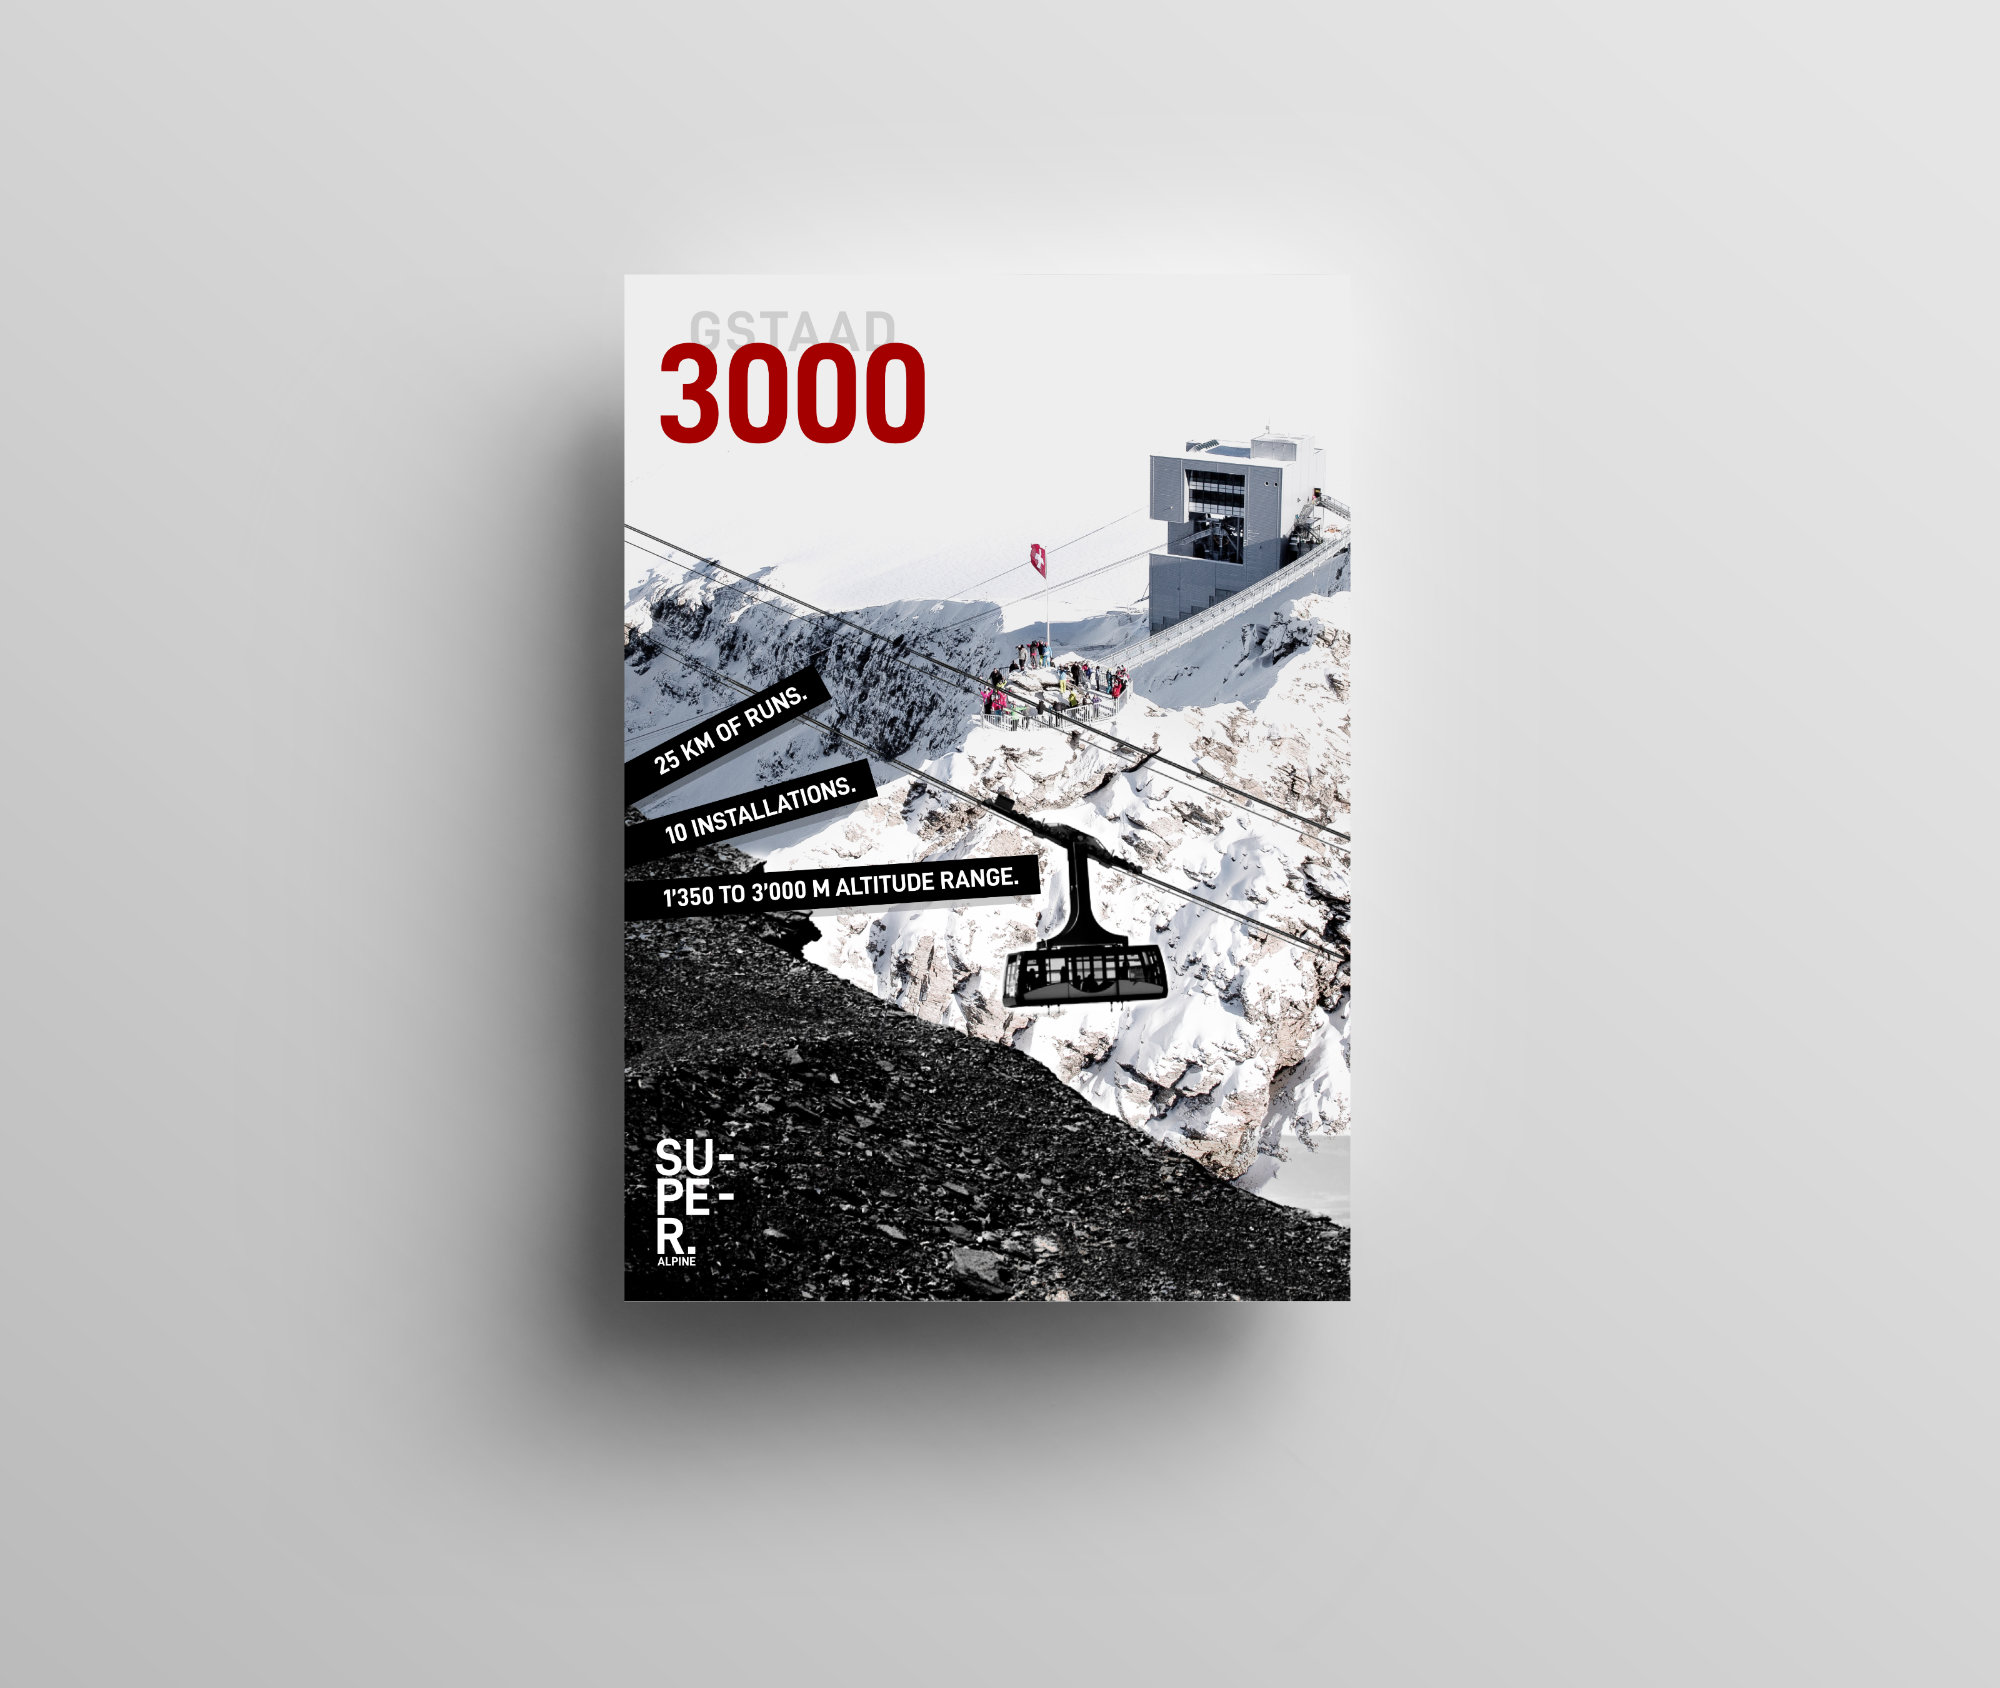
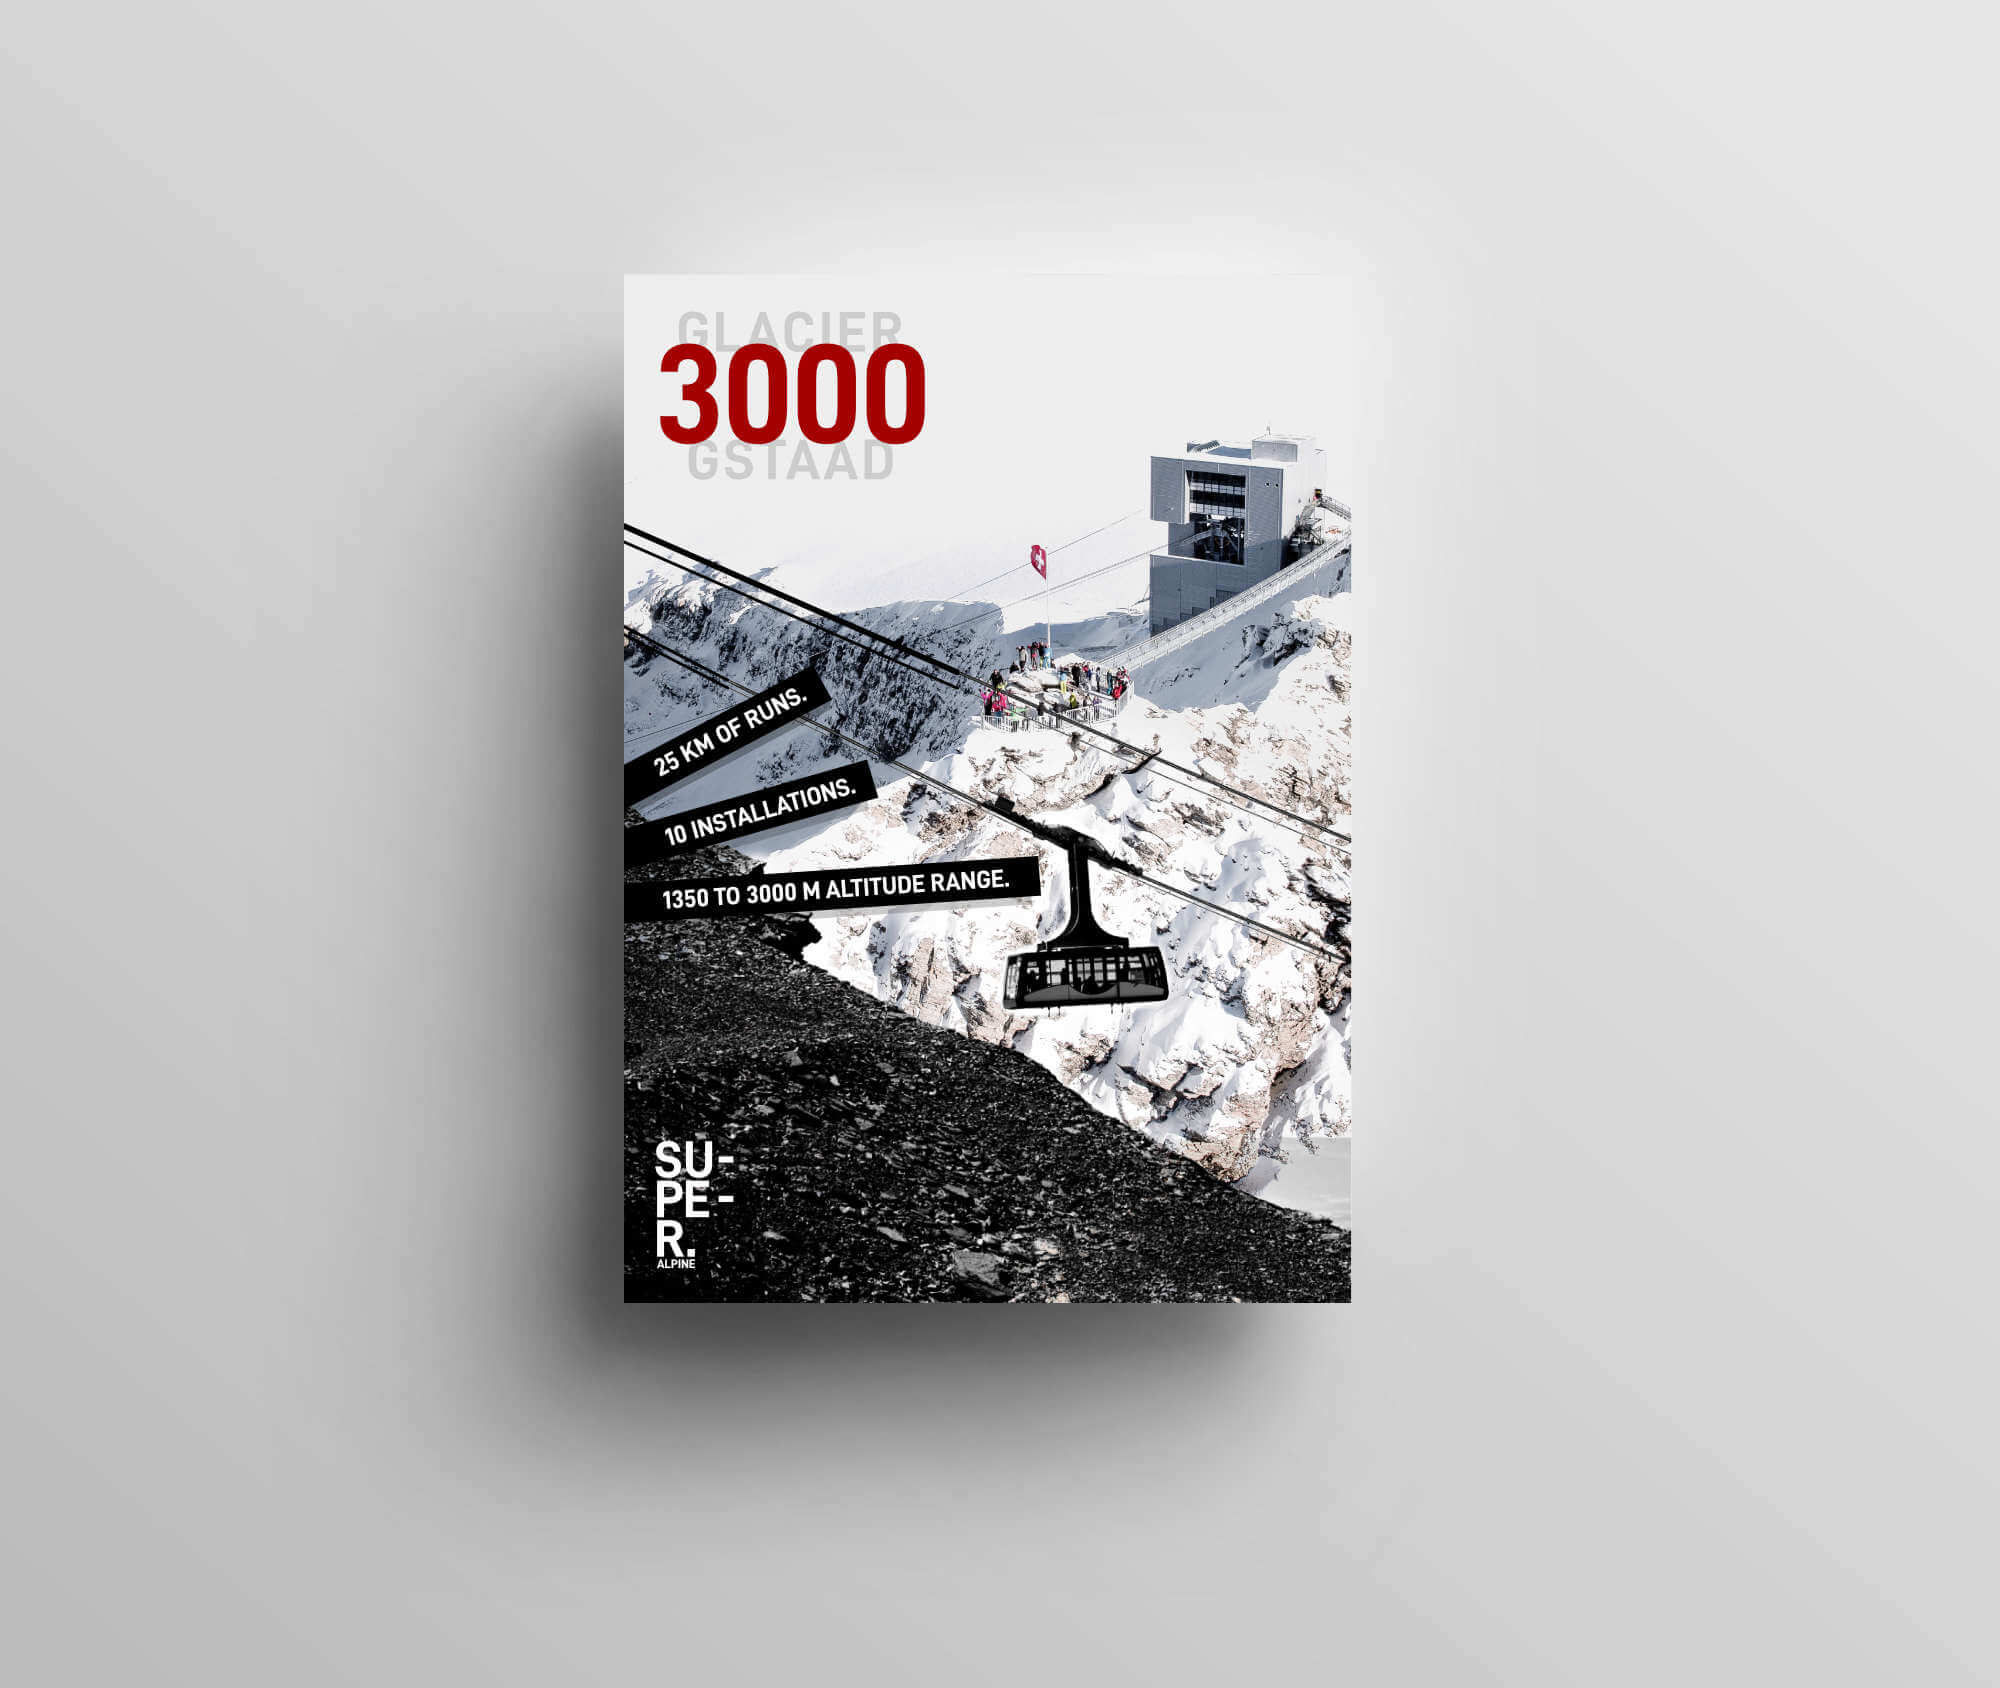
gstaad

Changed region(s): [[0.31, 0.2464, 0.682, 0.7701], [0.341, 0.1848, 0.465, 0.2773]]

diff --git a/projects/gstaad-poster.html b/projects/gstaad-poster.html
@@ -1,7 +1,7 @@
 <!doctype html>
 <html lang="en">
 <head>
-<title>Gstaad poster - Projects - Andrew Revitt</title>
+<title>staad Glacier 3000 poster - Projects - Andrew Revitt</title>
 <meta charset="utf-8">
 <meta name="viewport" content="initial-scale=1, maximum-scale=1">
 <link rel="stylesheet" href="../css/ar-main.css">
@@ -11,12 +11,12 @@
 <a href="../about/index.html"><img src="../img/favicon-96x96.png" class="icon" alt="A icon"></a>
 <h6><a href="../about/index.html">Andrew Revitt</a> / <a href="index.html">Projects</a></h6>
 <hr>
-<h1>Gstaad poster</h1>
+<h1>Gstaad Glacier 3000 poster</h1>
 <h6>Graphic design</h6>
 <hr>
-<p>Gstaad 3000 x Super Alpine poster</p>
-<img src="img/gstaad1.jpg">
-<img src="img/gstaad2.jpg">
+<p>Glacier 3000 x Super Alpine poster</p>
+<img src="img/gstaad1.jpg" alt="Gstaad Glacier 3000 poster">
+<img src="img/gstaad2.jpg" alt="Gstaad Glacier 3000 poster">
 
 </article>
 </body>
